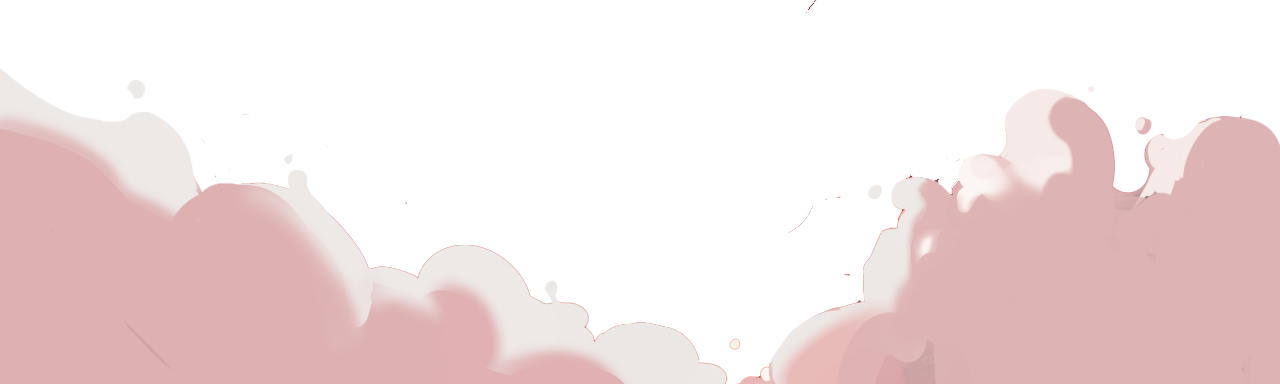
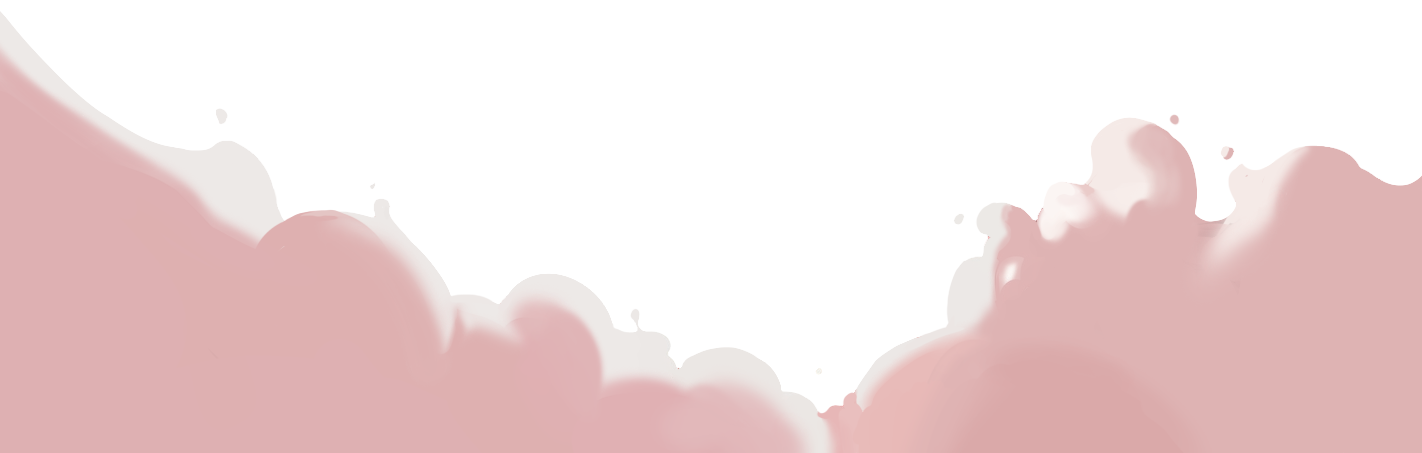
修改背景高度

Changed region(s): [[0.0, 0.0938, 1.0, 1.0]]

diff --git a/assets/scripts/Background.ts b/assets/scripts/Background.ts
@@ -26,7 +26,7 @@ export class Background extends Component {
         type:CCInteger,
         tooltip:'没见 boss 前的最高位置'
     })
-    public flyTop: number = 1440;
+    public flyTop: number = 2160;
 
     @property({
         type:CCFloat,
@@ -38,7 +38,13 @@ export class Background extends Component {
         type:CCInteger,
         tooltip:'到 boss 最高位置'
     })
-    public bossTop: number = 2160;
+    public bossTop: number = 4936;
+
+    @property({
+        type:CCInteger,
+        tooltip:'重力反转提示的高度'
+    })
+    public revertTop: number = 2300;
 
     public top: number = 0;
 
@@ -92,8 +98,9 @@ export class Background extends Component {
         this.stop();
 
         this.playBackGroundAudio(1);
+        // 目标高度
         this.top = this.bossTop;
-        this.y = this.initY - this.flyTop;
+        this.y = this.initY - this.revertTop;
         tween(this.node.position).to(this.flyToBossDuration, new Vec3(this.initX, this.y, 0), {
             easing: "sineOut",
             onUpdate: (target: Vec3, ratio: number) => {
@@ -102,7 +109,7 @@ export class Background extends Component {
             onComplete: () => {
                 setTimeout(()=>{
                     this.y = this.initY - this.bossTop;
-                    tween(this.node.position).to(0.6, new Vec3(this.initX, this.y, 0), {
+                    tween(this.node.position).to(0.8, new Vec3(this.initX, this.y, 0), {
                         easing: "smooth",
                         onUpdate: (target: Vec3, ratio: number) => {
                             this.node.position = target;
@@ -111,7 +118,7 @@ export class Background extends Component {
                             this.play();
                         }
                     }).start();
-                }, 1200)
+                }, 1800)
             }
         }).start();
     }
